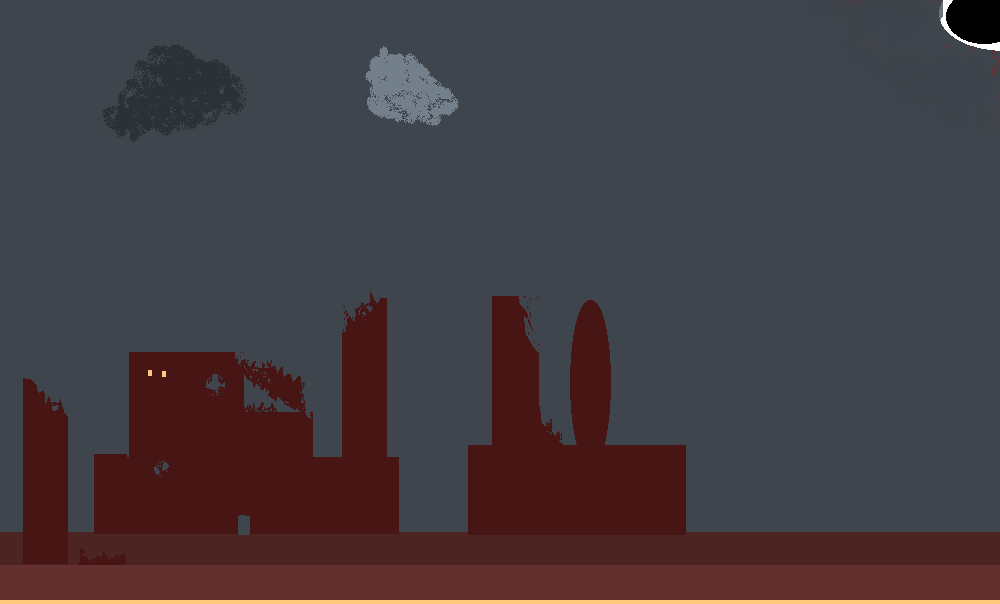
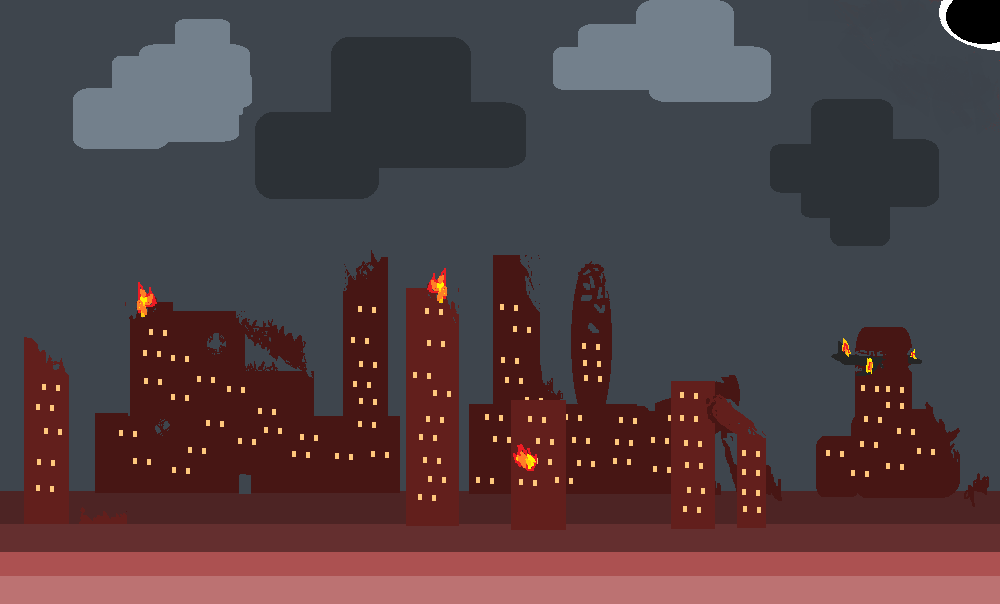
ggç

diff --git a/Raccoon land.py b/Raccoon land.py
@@ -69,7 +69,7 @@ class Background:
     def __init__(self):
         self.dim = 0
         self.sky0 = pygame.transform.scale(pygame.image.load("assets/sky0.png"),(1000,600))
-        self.sky1 = pygame.transform.scale(pygame.image.load("assets/sky1.png"),(1000,600))
+        self.sky1 = pygame.transform.scale(pygame.image.load("assets/fond monde 2.png"),(1000,600))
         self.actual=self.sky0
 
     #fonction "switch" permettant d'alterner entre les dimensions
